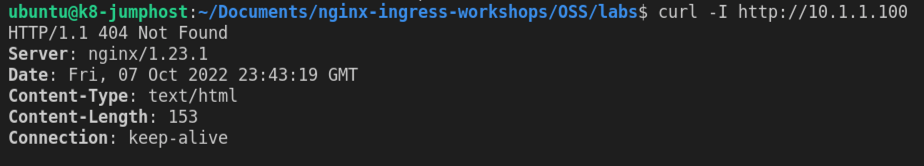
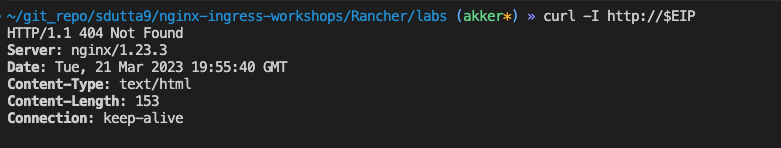
updated lab2 and lab3 screenshots

Changed region(s): [[0.0, 0.027, 0.9834, 0.8919]]

diff --git a/Rancher/labs/lab3/readme.md b/Rancher/labs/lab3/readme.md
@@ -48,9 +48,9 @@ The NGINX Ingress Controller is already running in this Workshop. You will be co
 
    In the example above you see: 
 
-   - `Cluster-IP` address of `10.107.20.212`  
-   - `External-IP` address of `10.1.1.100` 
-   - Both IPs are mapped from port `80` to a NodePort (`32656`); and from port `443` to a NodePort (`30143`)
+   - `Cluster-IP` address of `10.43.255.176`  
+   - `External-IP` address of `192.168.12.250` 
+   - Both IPs are mapped from port `80` to a NodePort (`31865`); and from port `443` to a NodePort (`30389`)
 
    *Remember:* 
 
@@ -62,10 +62,15 @@ The NGINX Ingress Controller is already running in this Workshop. You will be co
 
 ## Verify access to the Ingress Controller using the External IP
 
-1. Use the `LoadBalancer` External-IP address that we captured from the previous step to test your **k8s LoadBalancer Service**. Use `curl` to test it.
+1. Extract the `LoadBalancer` External-IP address in separate variable using below command.
+   ```bash
+   export EIP=$(kubectl get svc nic-nginx-ingress -n nginx-ingress -o jsonpath='{.status.loadBalancer.ingress[0].ip}')
+   ```
+
+2. Use the `LoadBalancer` External-IP address that we captured  in the variable from the previous step to test your **k8s LoadBalancer Service**. Use `curl` to test it.
 
    ```bash
-   curl -I http://10.1.1.100
+   curl -I http://$EIP
    ```
    You should see the following output if the `LoadBalancer` Service is configured correctly for Ingress:
 
@@ -93,7 +98,7 @@ vi /etc/hosts
 ```bash
 vi /etc/hosts
 
-10.1.1.100 cafe.example.com bar.example.com dashboard.example.com grafana.example.com prometheus.example.com juiceshop.example.com
+192.168.12.250 cafe.example.com bar.example.com dashboard.example.com grafana.example.com prometheus.example.com juiceshop.example.com
 ```
 
 >Note that all 6 hostnames are mapped to the same Loadbalancer External-IP.  You will use the Ingress Controller to route the traffic correctly in the upcoming labs.  
